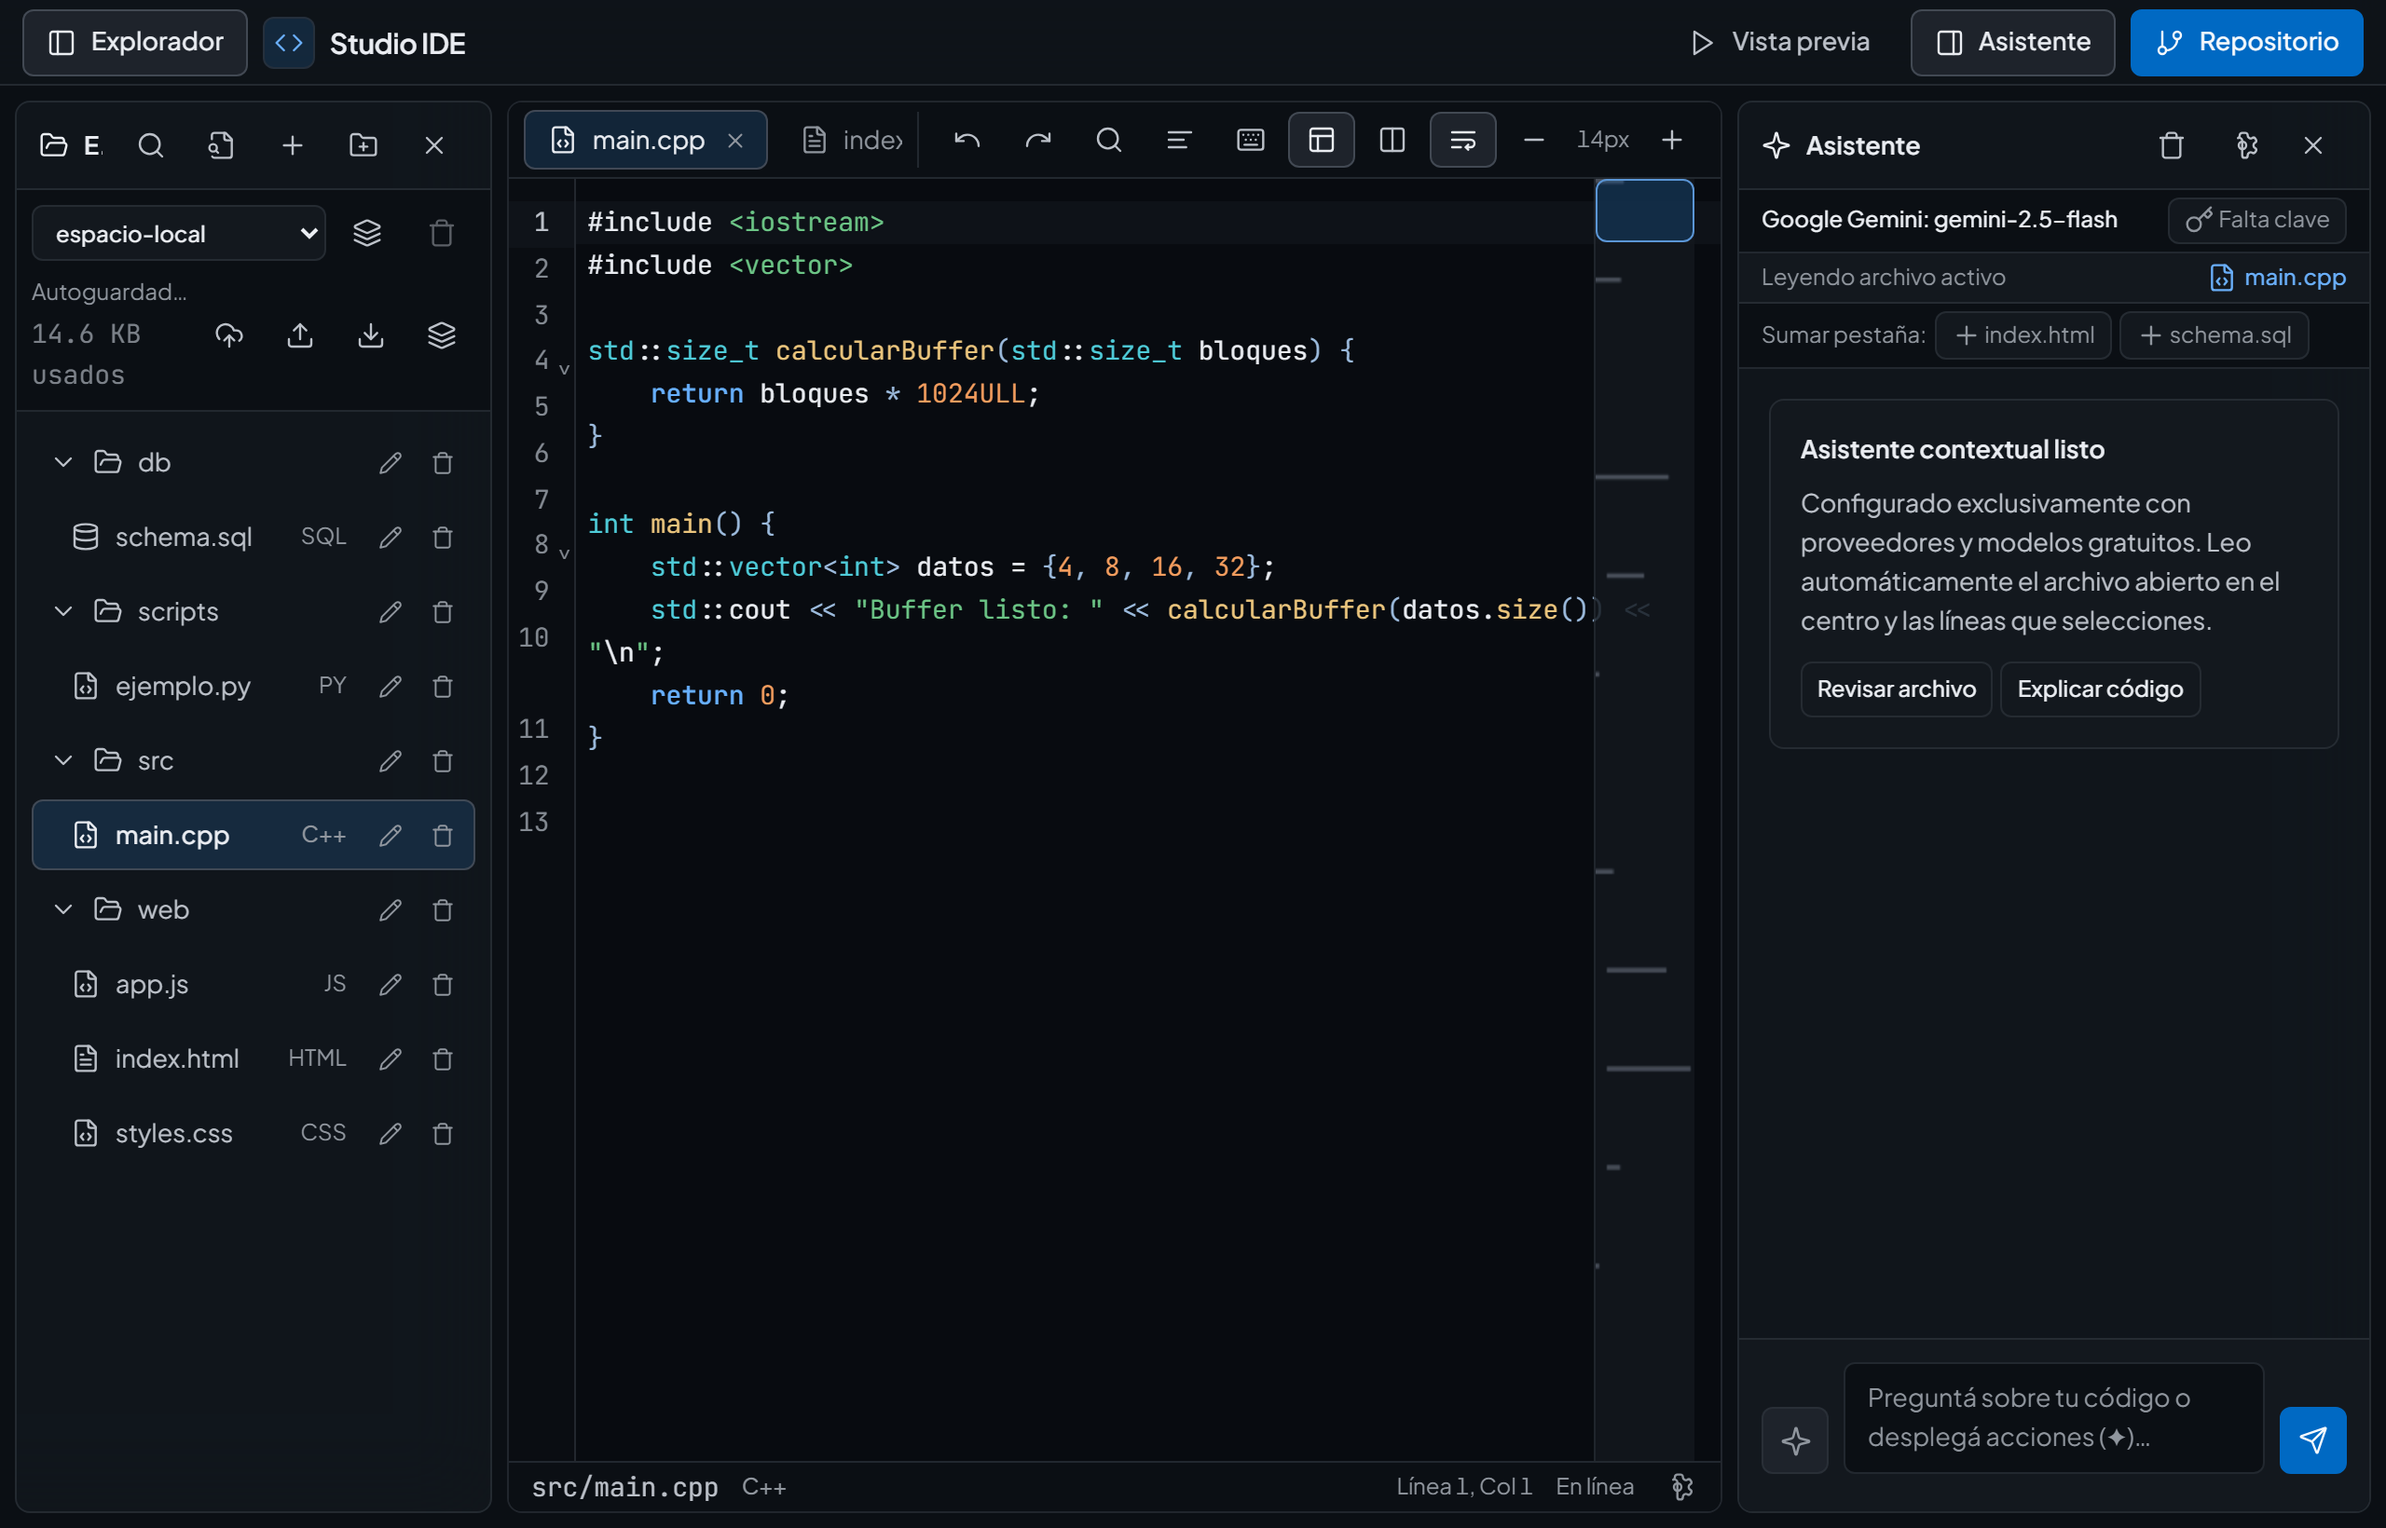
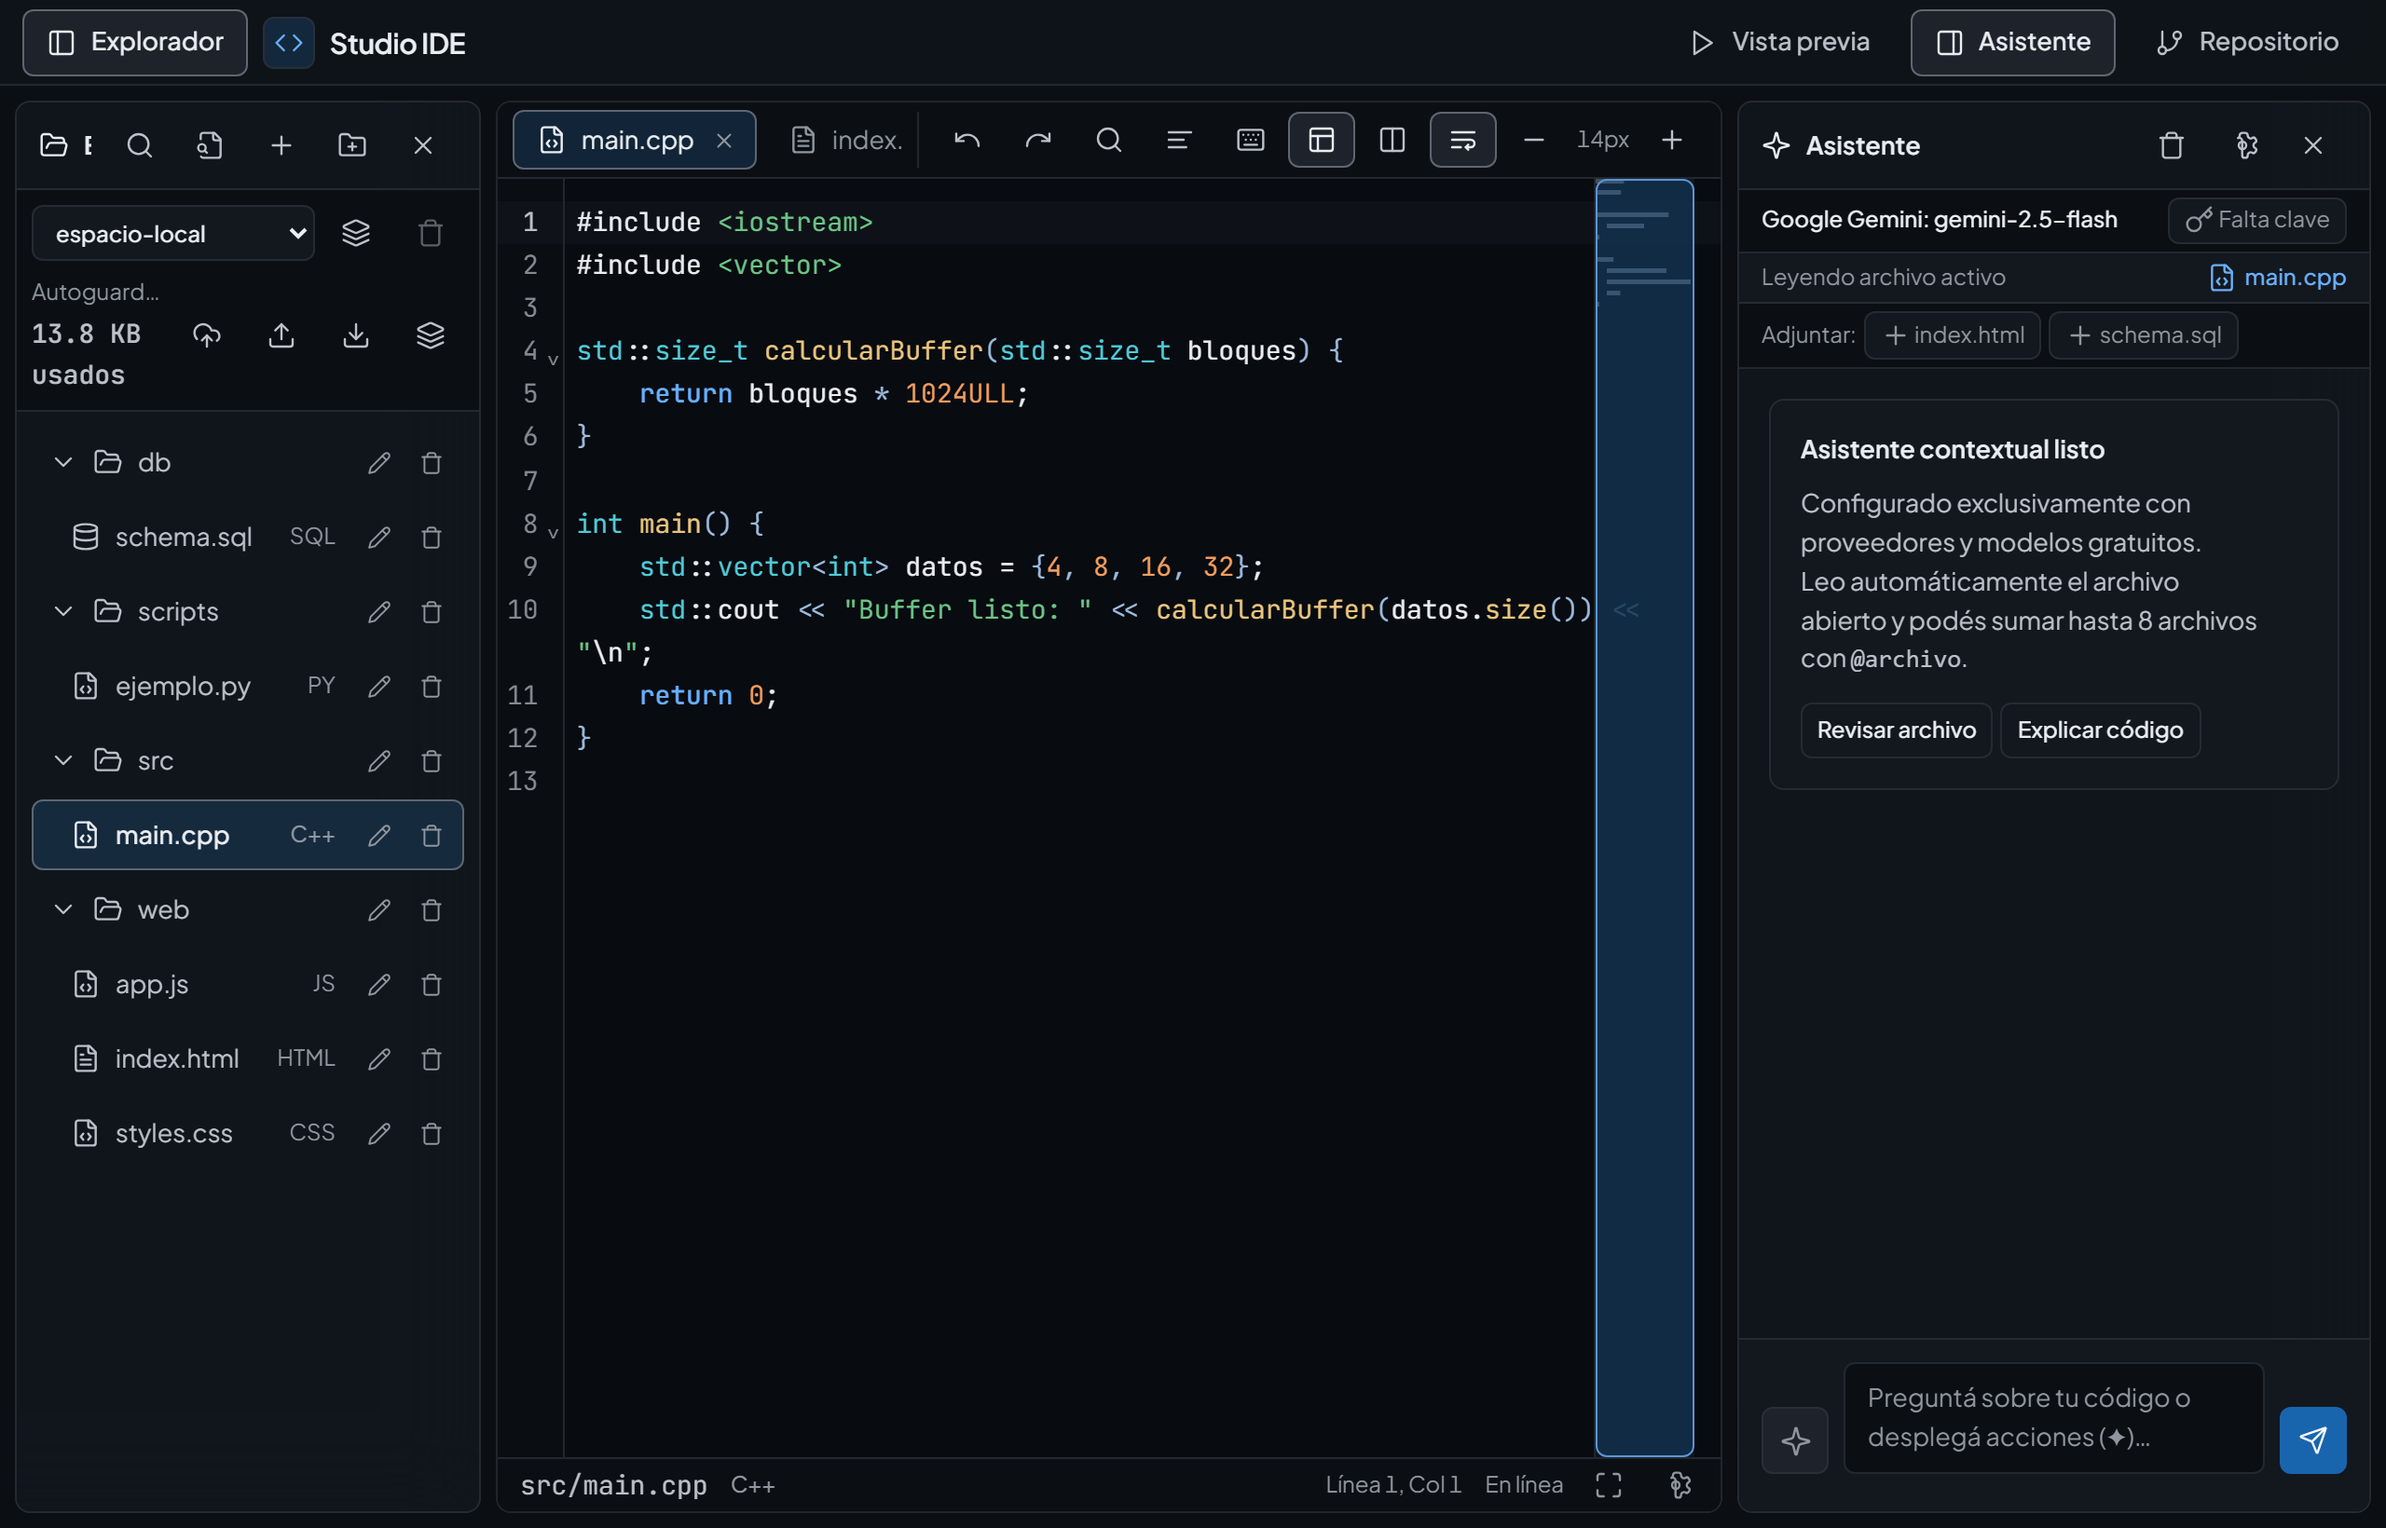
docs: regenerate v1.4.0 screenshots in real Chromium

diff --git a/scripts/take_real_screenshots.js b/scripts/take_real_screenshots.js
@@ -253,16 +253,31 @@ try {
   // 4. CAPTURE AI ASSISTANT IN ACTION
   console.log("Preparing AI Assistant chat panel...");
   await page.evaluate(() => {
+    const extraTabBtn = document.querySelector("#chat-extra-tabs .chat-extra-tab-chip");
+    if (extraTabBtn && !extraTabBtn.classList.contains("is-attached")) {
+      extraTabBtn.click();
+    }
     const chatInput = document.getElementById("chat-prompt-input");
     if (chatInput) {
-      chatInput.value = "¿Podrías optimizar este código en C++ para que use memoria dinámica eficientemente?";
+      chatInput.focus();
+      chatInput.value = "Optimizá este código usando @";
+      chatInput.setSelectionRange(chatInput.value.length, chatInput.value.length);
       chatInput.dispatchEvent(new Event("input", { bubbles: true }));
     }
   });
-  await new Promise((r) => setTimeout(r, 800));
+  await new Promise((r) => setTimeout(r, 900));
 
   console.log("Capturing 04-ai-assistant.png...");
   await page.screenshot({ path: path.join(OUT_DIR, "04-ai-assistant.png") });
+
+  await page.evaluate(() => {
+    const chatInput = document.getElementById("chat-prompt-input");
+    if (chatInput) {
+      chatInput.value = "";
+      chatInput.dispatchEvent(new Event("input", { bubbles: true }));
+      chatInput.blur();
+    }
+  });
 
   // 5. CAPTURE GITHUB DIALOG
   console.log("Opening GitHub dialog...");
